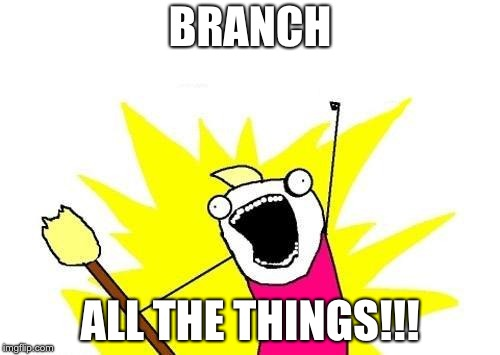
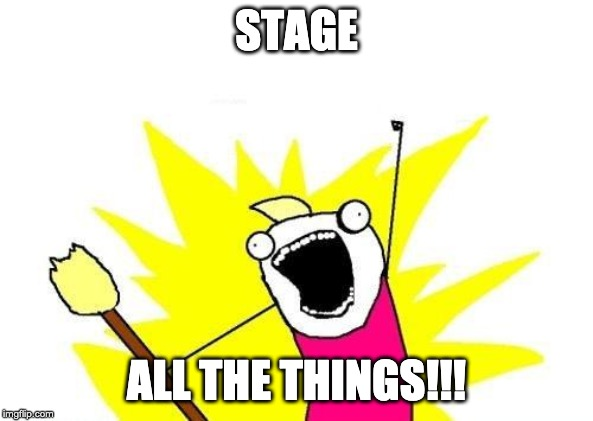
Fix memes and update content

diff --git a/docs/labs/2.md b/docs/labs/2.md
@@ -1,5 +1,5 @@
-# Working with repositories and remotes (pushing &amp; pulling)
-In Git, remotes are connections between repositories.  Pushing means sending code outward, to a remote repository.  Pulling means taking code inward, from a remote repository.
+# Working with remotes (pushing &amp; pulling)
+In Git, remotes are connections between repositories.  Pushing means sending code outward (uploading), to a remote repository.  Pulling means taking code inward (downloading), from a remote repository.
 
 <hr><br>
 
@@ -13,37 +13,39 @@ In Git, remotes are connections between repositories.  Pushing means sending cod
 When modifying the contents of files (we use txt files for simplicity), it's best to add a new line in the file for each change.
 {% endhint %}
 
-1. Ensure you are in the directory (using `pwd`) of the repository you init'ed in the beginning of Part 1. If you aren't in the right place, navigate there using `cd <yourUserDirectory>/MasterGitInADay/YourName_Repo1`.  Type `ls -al` for good measure; you should see _your_ file1.txt.
+### A: Add a remote and push code to it
+
+1. Move into the folder of the repository you init'ed in the beginning of Part 1 called `YourName_Repo1`. If you aren't in the right place, navigate there using `cd <yourUserDirectory>/MasterGitInADay/YourName_Repo1`.  Inspect the folder and file contents for good measure; you should see _your_ file1.txt.
 1. Run `git remote -v` to list your remotes.  Notice that there are none.
-1. In GitHub, login using your username.  Create a new public repository with the same name: `YourName_Repo1`.
-1. After creating it, GitHub will give you command-line instructions for connecting your local *existing* repository with this one you just created in the cloud.  It's under "…or push an existing repository from the command line".  Run those two commands locally.  This will push the commit you made earlier into the remote repository.
+1. In GitHub, login using your username.  Create a new public repository with the same name: `YourName_Repo1`.  Do *not* initialize the repository with a readme, .gitignore, or license file.
+1. After creating it, GitHub will give you command-line instructions for connecting your local *existing* repository with this one you just created in the cloud.  It's under "…or push an existing repository from the command line".  Run those two commands locally.  This will push the commit you made earlier into the remote repository.  You can tell that it worked because it will say `Writing objects: 100%`.
 1. Run `git remote -v` again to see that the remote (called "origin") is set up.  You should see `origin https://github.com/yourGitHubUsername/YourName_Repo1.git` twice - once for fetching and once for pushing.
-1. Attempt to push to the origin remote using `git push origin master`.  You should be able to tell that it worked because it will say `Writing objects: 100%` and give you a new commit hash.
 1. Refresh your repository in GitHub to see that the file you added is there.  You'll see "1 commit", which is the same commit (and same commit hash!) as the commit you made locally.  The time reflects the time the commit was made, not when it was pushed.
 
-### Now we're going to **delete your local Git repository**.
+### B: Now we're going to **delete your local Git repository**.
 
 Imagine that this directory is full of code, and you're about to blow it away!  Come on... It's like a Git trust fall.  It's going to be fun.
 
 1. In the terminal, we'll assume you're still in your `<yourUserDirectory>/MasterGitInADay/YourName_Repo1` folder.  Move up a directory with `cd ../`.
 1. Remove the directory with the force and recursive options.  **This command is powerful and dangerous.  Measure twice, cut once!** `rm -rf YourName_Repo1`
-1. Back in GitHub, find the clone URL for your repository.  This is the green "Clone or download" button in the upper right of the repository.  Copy this URL (HTTPS is easier, but SSH is safer).
+1. Ensure it worked by listing the contents of the directory you're in with `ls -al`.
+1. Back in GitHub, find the clone URL for your repository.  This is the green "Clone or download" button in the upper right of the repository.  Copy this URL.
 1. Now we're going to get the repository back on your local machine by using the clone command in the terminal: `git clone <the_clone_url>`
-1. Type `ls -al` to confirm that the repository is there again!  Congratulations, you just brought sexy back!
+1. Confirm that the repository is there again by listing the contents of the directory again.  (You know how to do this, I believe in you.)  Congratulations, you just brought sexy back!
 1. Don't forget to move back into the repository directory with `cd YourName_Repo1`.
 1. In the newly cloned repository, run `git remote -v` to see that the origin remote was automatically set up for us.  How convenient!
-1. In Atom, open up this repository again (if needed).  Make some change to `file1.txt`.  Add another (empty) file called `file2.txt`.
+1. In Atom, open up this repository again (if needed).  Add a line that says `Part2-B-Step9` to `file1.txt`.  Create another (new, empty) file called `file2.txt`.
 1. Type `git status` to see that one file is modified and one file is untracked.
 1. Stage both of these changes with `git add .` and inspect again with `git status`.
 1. Commit it with `git commit -m "I changed a file and added another"`
-1. `git push` it to your *origin* remote with `git push origin master`.  (Pro tip: `git push` would also work, but I think being explicit here is a helpful habit.)
+1. Push this commit to your *origin* remote with `git push origin master`.  (Pro tip: `git push` would also work, but I think being explicit here is a helpful habit.)
 1. In GitHub, notice that you now have two commits and (coincidentally) two files.
 1. Still in GitHub, click on `file2.txt` and see that it's empty.  Click the pencil icon to edit the contents of the file.
-1. Add a sentence to this file using the GitHub editor.
+1. Add `Part2-B-Step16` to this file using the GitHub editor.
 1. At the bottom, enter "I added a sentence" in the commit description.  (An extended description is not needed... unless you just need typing practice.)
 1. Leave the default radio button selected (use master branch) and click the green button to commit.
 1. Back in the terminal, pull these changes using `git pull origin master`
-1. Now open file2.txt in Atom and see your awesome sentence!  Pat yourself on the back - you just pushed and pulled your way to the end of this section!
+1. Now open file2.txt in Atom and behold, there is text!  Pat yourself on the back - you just pushed and pulled your way to the end of this section!
 
 {% hint style='tip' %}
 The `.` (period) means "all files"

diff --git a/docs/labs/1.md b/docs/labs/1.md
@@ -1,4 +1,4 @@
-# Working with repositories and remotes (pushing &amp; pulling)
+# Working with repositories
 In Git, repositories are special directories that track their own content.  As the files and the contents within them change over time, Git remembers versions of this history using commits.  Each commit has a 40-character SHA hash associated with it so it can be uniquely identified.
 
 <hr><br>
@@ -10,34 +10,35 @@ In Git, repositories are special directories that track their own content.  As t
 <br><br>
 
 {% hint style='tip' %}
-Navigate to your _yourUserDirectory_/MasterGitInADay folder before you begin!
+Navigate to your "repository home" for these labs before you begin: _yourUserDirectory_/MasterGitInADay
 {% endhint %}
 
-### Init a repository and add a file
+### A: Init a repository, add and commit a file
 
 1. Ensure you are in your _repository_ home directory by running `pwd`.  If you aren't in the right place, navigate there using `cd <yourUserDirectory>/MasterGitInADay`
 1. Create a folder here for a new repository called "YourName_Repo1": `mkdir YourName_Repo1`
 1. Navigate into this folder using `cd YourName_Repo1` Pro tip: If you type `cd `, then the first few letters, and then hit tab, it should autocomplete for you.  This works for all terminal commands!
 1. Use `git init` to turn this folder into a local git repository
-1. Ensure you can see the .git folder.  In the terminal, you can list all files (including hidden ones starting with a period) using `ls -al`.  Note that, on some operating systems, you may need to configure your file *explorer* to show these files & folders because they are hidden.
-1. Use `git status` to check out what's going on.  You should see "no commits yet".  Notice that you're on the master branch.
+1. Ensure you can see the .git folder.  In the terminal, you can list all files (including hidden ones starting with a period) using `ls -al`.  If you're also looking at the files in a file *explorer* (GUI), you may need to configure it to show all files & folders.
+1. Use `git status` to check out what's going on.  You should see "no commits yet".
 1. Create an empty file called file1.txt: `touch file1.txt`
-1. In Atom, go to "File" -> "Add Project Folder..." and open the `<yourUserDirectory>/MasterGitInADay` folder as a project.
-1. Open file1.txt and put something in it.  Save the changes.
-1. Back in the terminal, use `ls -al` again to see that the file now exists.  Note that on some operating systems, you may need to configure your file explorer to show file *extensions* so you see "file1.txt" instead of "file1".
+1. In Atom, go to "File" -> "Add Project Folder..." and open the `<yourUserDirectory>/MasterGitInADay` folder as a project.  You'll see all repositories appear here.
+1. Open file1.txt and type `Part1-A-Step9` it.  Save the changes.
+1. Back in the terminal, use `ls -al` again to see that the file now exists.  If you're also looking at the files in a file *explorer* (GUI), you may need to configure it to show file *extensions* so you see "file1.txt" instead of "file1".
 1. Use `git status` to see that this file is untracked, in red.  Pro tip: You can hit the up arrow to go back in your command history, which also saves you typing and time!
 1. Use `git add file1.txt`, which stages it.
 1. Run `git status` again to see that the file is staged (listed under the "Changes to be committed" section, in green)
-1. Run `git commit -m "Initial commit"` to make a commit with that message.  Note the commit hash that is produced (just the first 4-some characters).  Pro tip: You can commit with simply `git commit`, but it will open the configured editor (or if none is configured, vim) for you to write a commit message there.  Google "vim cheatsheet" in case you get trapped in Vim Land!
+1. Run `git commit -m "Initial commit"` to make a commit with that message.  Note the commit hash that is produced (just the first 7 characters, after "master (root-commit)").  Pro tip: You can commit with simply `git commit`, but it will open the configured editor (or if none is configured, vim) for you to write a commit message there.  Google "vim cheatsheet" in case you get trapped in Vim Land!
 
 
-### Clone a repository
+### B: Clone a repository
 
 1. Move out of the repository you're currently in (the one you created in the steps above).  Do this by typing `cd ../`
 1. Now, rather than creating a repository on your machine from scratch, you're going to clone one from GitHub.  Clone [this repository](https://github.com/lyndseypadget/LPadget_Repo1) using the URL provided by GitHub's green "clone or download" button.  (You may have to use a HTTPS or SSH depending on the way you configured Git.)  The command will look like `git clone <URL>`.
 1. Type  `ls -al` to see that the repository was cloned successfully into a folder with the name LPadget_Repo1.
-1. Move into this folder with `cd LPadget_Repo1`.  Look around with `pwd` and `ls -al`.  Open it up in atom with `atom .` if you want to explore the files.
+1. Move into this folder with `cd LPadget_Repo1`.  Look around with `pwd` and `ls -al`.  Open it up in atom with `atom .` if you want to explore the files.  This will open a _new_ instance of Atom, which you can then close. {% hint style='tip' %}If you get "command not found" but you know atom is installed, try closing your terminal and re-opening it.{% endhint %}
 1. Back on the command line, move back up a directory again with `cd ../`.
-1. Repeat the clone command (hint: hit the up arrow in your terminal a few times until you find it) except **this time** provide one more argument.  After that same clone command, add a space and a name of your choosing.  So your command should look like `git clone <url> <name>`.
-1. After the command completes, type `ls -al`.  Notice that there is a folder with the name you provided in the last step.
+1. Repeat the clone command (hint: hit the up arrow in your terminal a few times until you find it) except **this time** provide one more argument.  The additional argument will become the name of the folder this repo gets downloaded into.  So your command should look like `git clone <url> Part1-B-Step6`.
+1. After the command completes, type `ls -al`.  Notice that there is a folder named `Part1-B-Step6`.
 1. Once again, move into the directory with the `cd` command.  It's the same repo contents - the only thing that has changed is the name of the folder it's in.  Neat!
+1. Move back up to your repository home with `cd ../`

diff --git a/docs/labs/3.md b/docs/labs/3.md
@@ -1,11 +1,11 @@
 # Staging, Tracking, &amp; Fixing local commits
-A repository doesn't know which files to care or not care about - you have to tell it.  The process of adding new files to be tracked or recording changes to existing files is called staging.  When you `commit`, you are recording the changes in your local repository only.  If you get this far and realize you've made a mistake, it's easy to fix because it still only lives on your machine.
+A repository doesn't know which files to care or not care about - you have to tell it.  The process of adding new files to be tracked or recording changes to existing files is called staging.  When you commit, you are recording the changes in your local repository only.  If you get this far and realize you've made a mistake, it's easy to fix because it still only lives on your machine.
 
 <hr><br>
 
-<!-- <div>
+<div>
     <img src="3-meme.jpg">
-</div> -->
+</div>
 
 <br><br>
 
@@ -14,21 +14,23 @@ A repository doesn't know which files to care or not care about - you have to te
 Use `git status` throughout these steps to gain visibility into what's going on.
 {% endhint %}
 
-### Getting comfortable with staging
-
 {% hint style='tip' %}
 repo means repository
 {% endhint %}
 
-1. In the terminal, navigate back to the first repository you created in the *beginning* of part 1.
-1. Make some changes to file1.txt, `git add file1.txt` to stage it.
-1. Make more changes to the same file, use `git status` to see how some changes are staged and some are not
-1. `git commit -m "I changed file1"` the first set of changes
-1. `git add file1.txt` and `git commit -m "More changes to file1"` to stage and commit the second set of changes
-1. Make yet another set of changes to this file.  Use `git add file1.txt` and `git reset HEAD file1.txt` to stage and then unstage the second set of changes.  Remember to use `git status` often to see what's happening!
+### A: Getting comfortable with staging
+
+1. In the terminal, make sure you're in the `YourName_Repo1` repository/directory from Part 2.
+1. Add the line `Part3-A-Step2` to file1.txt.  Remember to save the changes.
+1. Run `git add file1.txt` to stage it.
+1. At the beginning (very top) of file1.txt, insert a new line that says `This is a separate modification!`.
+1. Use `git status` to see that some changes are staged and some are not, even within the same file!
+1. `git commit -m "I did Part3-A-Step2"` to commit the first change.
+1. `git add file1.txt` and `git commit -m "A different modification to file1"` to stage and commit the second set of changes.
+1. Add another line to the bottom of this file that says `Part3-A-Step8`.  Use `git add file1.txt` and `git reset HEAD file1.txt` to stage and then unstage the second set of changes.  Remember to use `git status` often to see what's happening!
 1. Now that the changes are unstaged, `git checkout -- .` to undo them completely
 1. Create a new file called `file3.txt`, notice again that `git status` tells you it's untracked.
-1. `git add file3.txt` and `git commit -m "Added file3.txt"` to have Git track it
+1. `git add file3.txt` and `git commit -m "Added file3.txt"` to have the repository track it.
 1. Undo the last commit so that the changes are reversed and staged: `git reset HEAD~1 --soft`.  Verify with `git status`.
 1. Commit it again with `git commit -m "Merp"`
 1. Redo the last commit with a different commit message using `git commit --amend -m "file3.txt... ah much better"`
@@ -36,7 +38,7 @@ repo means repository
 1. Add the file to the staging area again with `git add .`.  Commit it with `git commit -m "I added file3 for real this time"`
 1. Undo the last commit so that the changes are completely discarded: `git reset HEAD~ --hard`.  Verify with `git status` **and** `ls -al`.  See that file3 is no longer there at all.  Great Scott, you just time-traveled!
 
-### Ignoring files from the git repository
+### B: Ignoring files from the git repository
 
 1. From your repo root (the same repo you used above), create these four .log files at the following paths:
   1. test.log
@@ -47,9 +49,9 @@ repo means repository
 1. Run `git add .`, and then run `git status` to see 4 green items (now the contents are displayed)
 1. Use `git reset HEAD .` to unstage all of them.  Verify with `git status`
 1. Create a file called `.gitignore` in the root of the repository.  Let's make it exclude .log files.  Experiment with the [glob patterns](http://bit.ly/MasterGitGlob) below.  Meaning, put each pattern into the `.gitignore` file and save it, then run `git status` to see how Git "sees" (or doesn't) the file(s) to be tracked/staged.  Because some folders and files are nested, you may have to stage and unstage them to see the effect.
-  1. .log (this catches 2/4 files)
-  1. \*.log (this catches no files)
-  1. bin/\*.log (How many does this catch and why?)
+  1. .log (this ignores 2/4 files)
+  1. \*.log (this ignores all files)
+  1. bin/\*.log (How many does this ignore and why?)
   1. bin/Stuff/\*.log (note case, Windows is case insensitive, Mac is not)
-  1. bin/\*\*/\*.log (How many does this catch and why?)
-1. Remove all of these files to get ready for the next part.  We call this "making your working directory clean".  But if you're in Atlanta, you get to say "so fresh and so clean clean".
+  1. bin/\*\*/\*.log (How many does this ignore and why?)
+1. Well that was fun.  Remove all of these files, including the .gitignore, to get ready for the next part.  We call this "making your working directory clean".  But if you're in Atlanta, you get to say "so fresh and so clean clean".

diff --git a/docs/labs/4.md b/docs/labs/4.md
@@ -4,7 +4,7 @@ Within a repository, multiple branches can exist.  Branches are like parallel un
 <hr><br>
 
 <div>
-    <img src="3-meme.jpg">
+    <img src="4-meme.jpg">
 </div>
 
 <br><br>

diff --git a/docs/labs/5.md b/docs/labs/5.md
@@ -6,7 +6,7 @@ This happens to professionals, more often than most will admit.  Depending on th
 <hr><br>
 
 <div>
-    <img src="4-meme.jpg">
+    <img src="5-meme.jpg">
 </div>
 
 <br><br>

diff --git a/docs/labs/6.md b/docs/labs/6.md
@@ -4,7 +4,7 @@ So far, we've learned and used concepts that are sufficient for collaborating wi
 <hr><br>
 
 <div>
-    <img src="5-meme.jpg">
+    <img src="6-meme.jpg">
 </div>
 
 <br><br>
